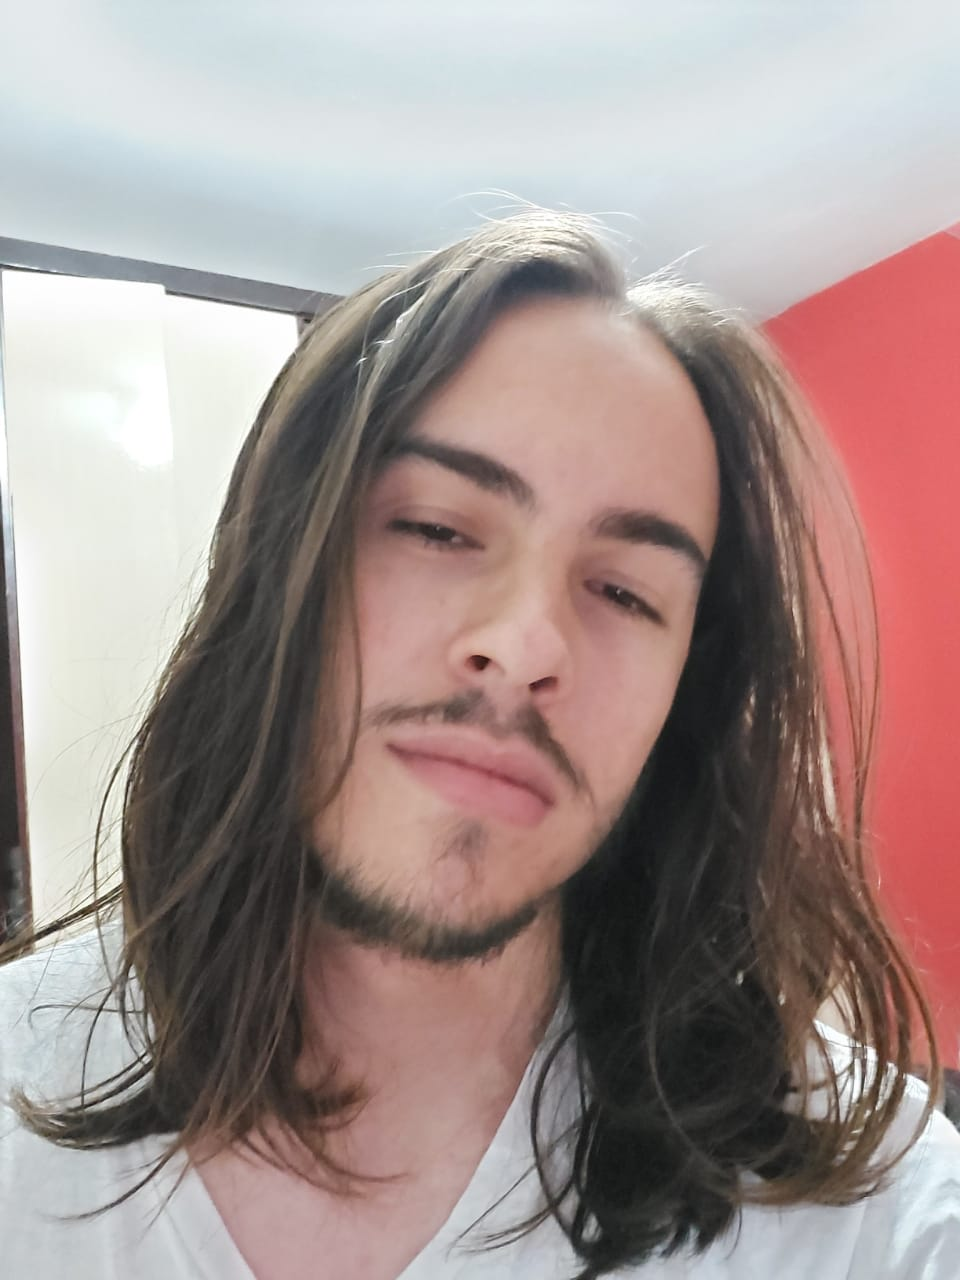
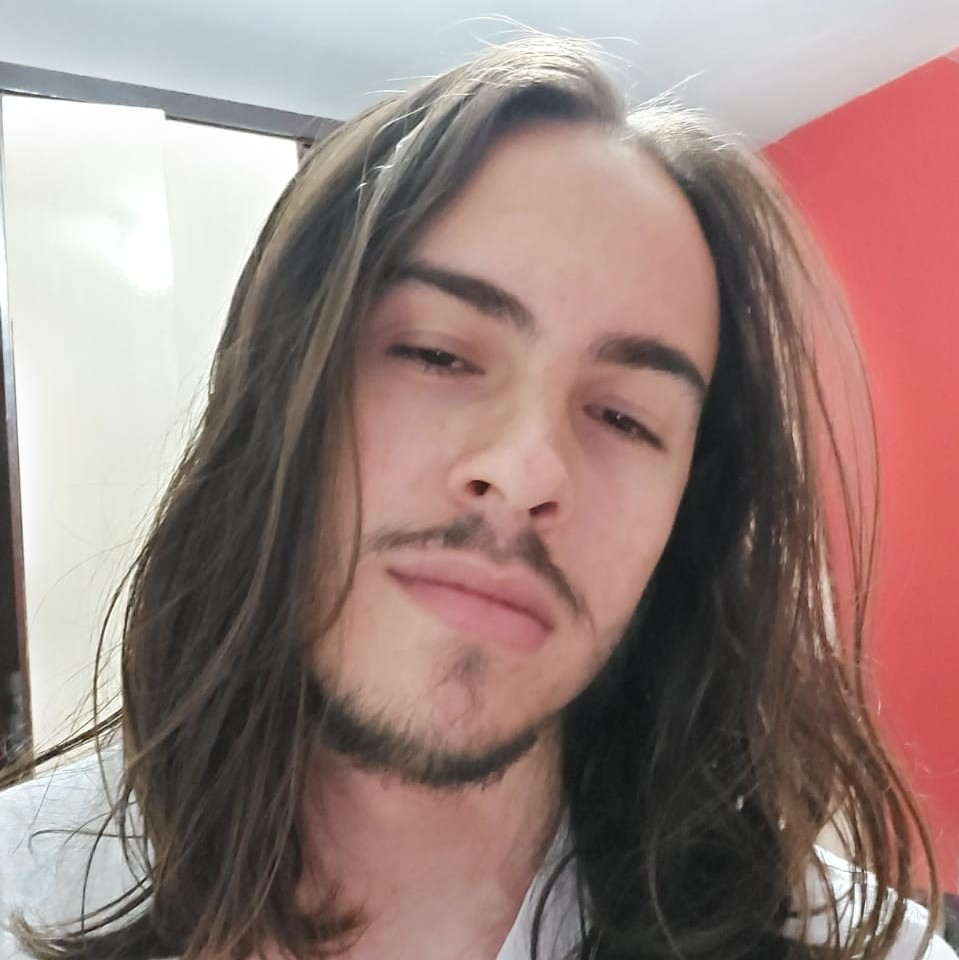
alteração estilo tags, foto de perfil redondo e centralizar tudo

diff --git a/index.html b/index.html
@@ -9,20 +9,30 @@
 
         #alex {
           font-family: helvetica;
+         
         }
-
+        /* ajuda do amigo Leandro para centralizar as bolinhas do UL junto com o resto  */
         body {
           font-family: sans-serif;       
           background-color: #FFE1A8;   
+          display: flex;
+          flex-direction: column;
+          align-items: center;
         }
 
+        .imagem_perfil {
+          border-radius: 50%;          
+        }
+        .listaul {
+          line-height: 21px;
+        }
     </style>
 </head>
 <body>
-    
-    <img src="/images/WhatsApp Image 2021-06-30 at 12.27.19.jpeg" width="300" alt="Foto de alexandro cubas">
+      <br>  
+    <img src="/images/WhatsApp Image 2021-06-30 at 12.27.19.jpeg" width="350" alt="Foto de alexandro cubas" class="imagem_perfil">
 
-    <ul> <em>
+    <ul class="botão_listas"> <em>
       <li> <a href="#alex">nome</a> </li>
       <li> <a href="#sobre"> sobre</a></li>
       <li> <a href="#habilidade"> Habilidades</a></li>
@@ -32,20 +42,22 @@
 
     <h1 id="alex">Nome : Alexsandro Cubas</h1>
     <h2 id="sobre">Sobre:</h2>
-    <p> <strong> Meu nome é Alexsandro Cubas, moro em Curitiba Paraná, tenho 23 anos e estudo na Trybe. </strong></p>
+    <p>  Meu nome é Alexsandro Cubas, moro em <strong>Curitiba Paraná</strong>, tenho <strong> 23 anos </strong> e estudo na Trybe.</p>
 
     <h2 id="habilidade">Habilidades</h2>
 
-    <ul>
+    <ul class="listaul">
         <li> <strong><em> Boa determinação</em></strong></li>
         <li> <em>Trabalho em equipe</em></li>
-        <li>Inglês iniciante</li>
+        <li>Inglês</li>
 
-    </ul>
+    </ul class="listaul">
+    
+        <br>
 
     <a href="#alex" >Alexsandro Cubas</a>
 
-        <br><br>
+        <br>
 
     <a id="links" href="https://www.twitch.tv/alanzoka" target="_blank">Lives do alanzoka</a>
 </body>
